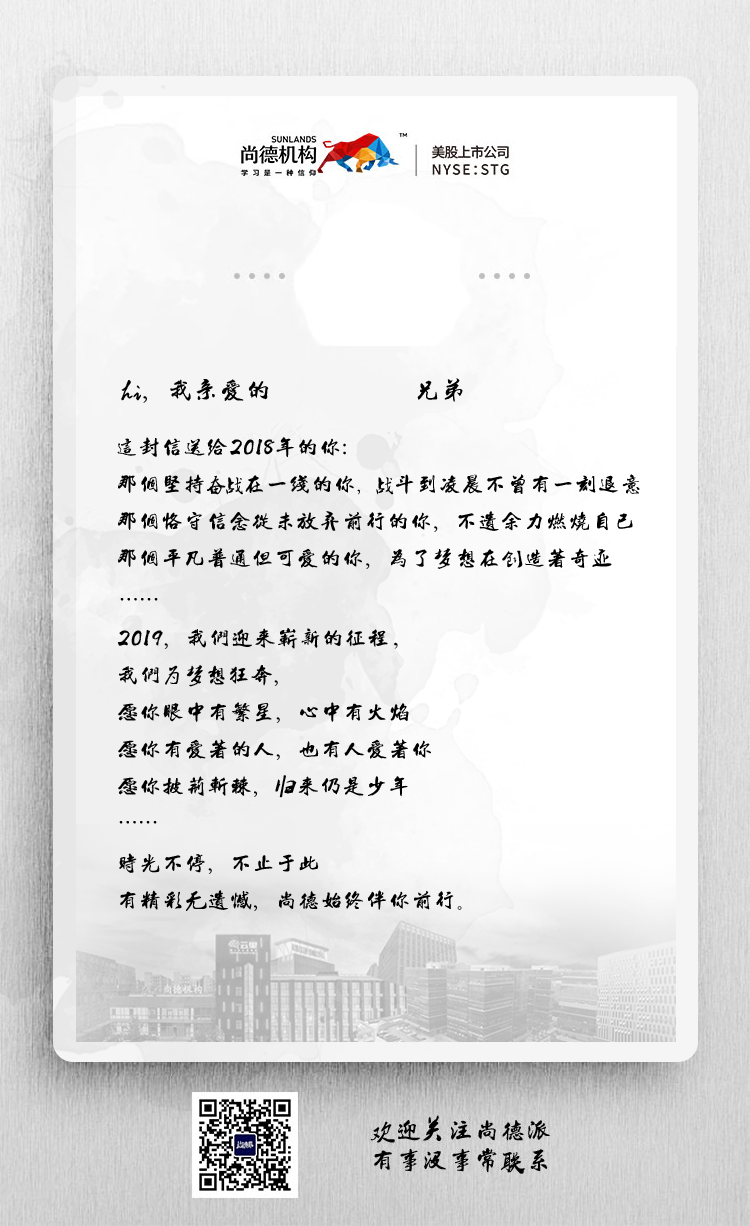
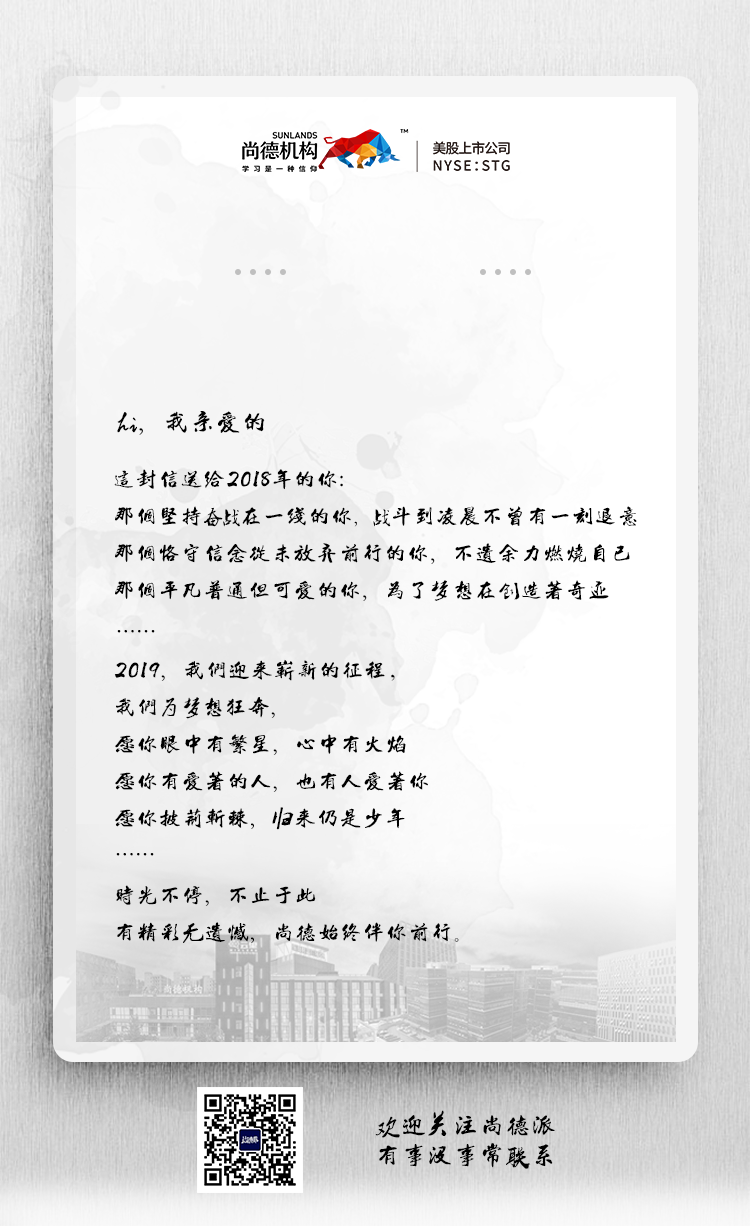
过渡背景

diff --git a/src/App.vue b/src/App.vue
@@ -6,7 +6,7 @@
 
 <script>
 import bj1 from './asset/letter/bj1.png'
-// import bj2 from './asset/letter/bj2.png'
+import bj2 from './asset/letter/bj2.png'
 
 export default {
   name: 'app',
@@ -18,7 +18,7 @@ export default {
   },
   created() {
     if (typeof this.$route.path === 'string' && this.$route.path.indexOf('share') !== -1) {
-      this.backgroundImage = ''
+      this.backgroundImage = bj2
       this.nopadding = true
     }
   }
